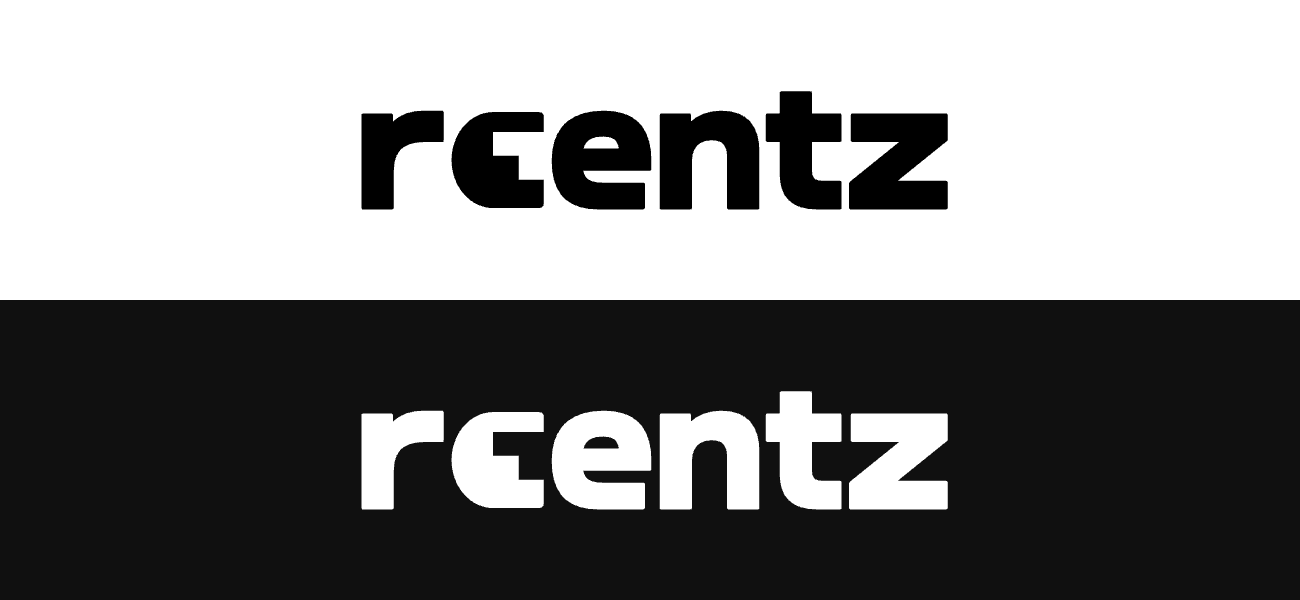
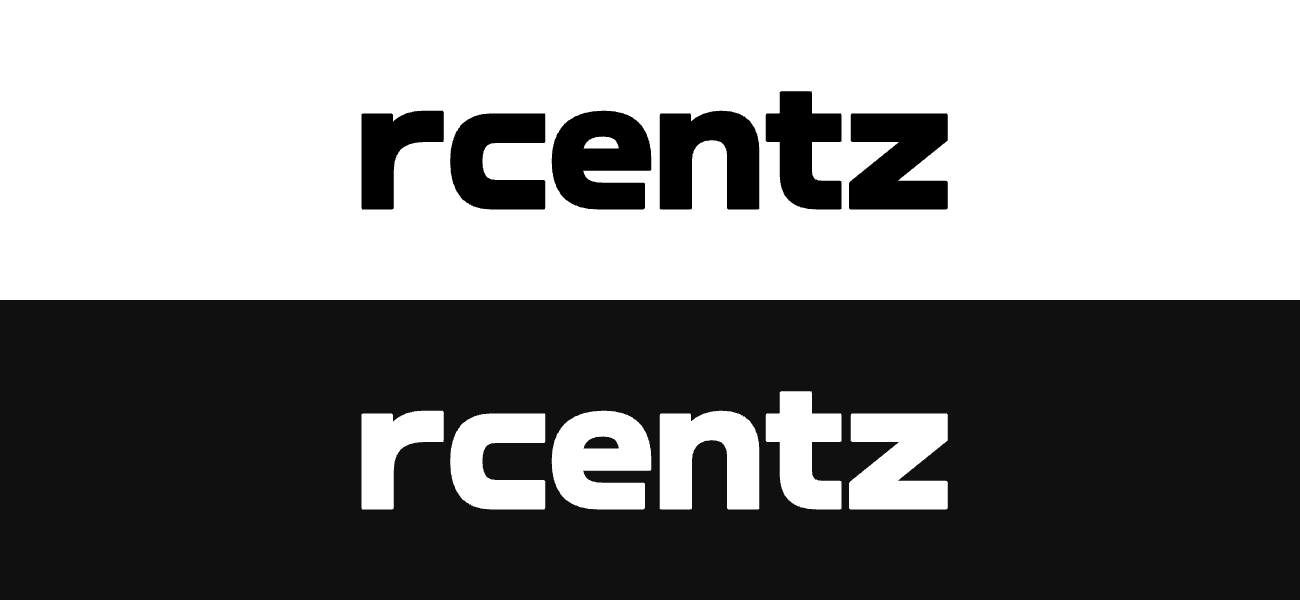
fix(brand): restore standalone original Rcentz wordmark

diff --git a/ui-shell/brand/RcentzBrandLogo.tsx b/ui-shell/brand/RcentzBrandLogo.tsx
@@ -1,7 +1,7 @@
 export function RcentzBrandLogo({ className }: { className?: string }) {
   return (
     <svg xmlns="http://www.w3.org/2000/svg" viewBox="0 0 650 132" fill="none" aria-hidden="true" className={className}>
-      <g transform="translate(0 -16)"><g fill="currentColor" stroke="currentColor" strokeWidth="3" strokeLinejoin="round"><path d="M14 145V44H45V55C53 46 64 41 80 41H100V72H80C57 72 46 83 46 104V145Z"/></g><g transform="translate(110 145) scale(0.534759358 -0.615384615)"><path fill="currentColor" d="M84.5 0H177Q187 0 187 10V50H136V92H84V134H187V159Q187 169 177 169H84.5A84.5 84.5 0 0 1 84.5 0Z"/></g><g fill="currentColor" stroke="currentColor" strokeWidth="3" strokeLinejoin="round"><path fillRule="evenodd" d="M275 41C310 41 325 60 325 94V103H251C252 114 259 119 274 119H318V145H269C236 145 220 128 220 94C220 60 238 41 275 41ZM251 82H293C292 71 286 66 274 66C261 66 253 71 251 82Z"/><path d="M337 145V44H368V54C378 45 389 41 402 41C430 41 442 57 442 84V145H410V89C410 76 404 70 392 70C377 70 369 79 369 94V145Z"/><path d="M467 20H499V44H531V72H499V105C499 113 503 117 512 117H531V145H506C479 145 467 132 467 108V72H452V44H467Z"/><path d="M544 44H646V71L589 117H646V145H542V118L599 72H544Z"/></g></g>
+      <g transform="translate(0 -16)" fill="currentColor" stroke="currentColor" strokeWidth="3" strokeLinejoin="round"><path d="M14 145V44H45V55C53 46 64 41 80 41H100V72H80C57 72 46 83 46 104V145Z"/><path d="M210 44V73H158C147 73 142 79 142 94C142 109 147 116 158 116H210V145H153C125 145 110 128 110 94C110 61 125 44 153 44Z"/><path fillRule="evenodd" d="M275 41C310 41 325 60 325 94V103H251C252 114 259 119 274 119H318V145H269C236 145 220 128 220 94C220 60 238 41 275 41ZM251 82H293C292 71 286 66 274 66C261 66 253 71 251 82Z"/><path d="M337 145V44H368V54C378 45 389 41 402 41C430 41 442 57 442 84V145H410V89C410 76 404 70 392 70C377 70 369 79 369 94V145Z"/><path d="M467 20H499V44H531V72H499V105C499 113 503 117 512 117H531V145H506C479 145 467 132 467 108V72H452V44H467Z"/><path d="M544 44H646V71L589 117H646V145H542V118L599 72H544Z"/></g>
     </svg>
   );
 }
